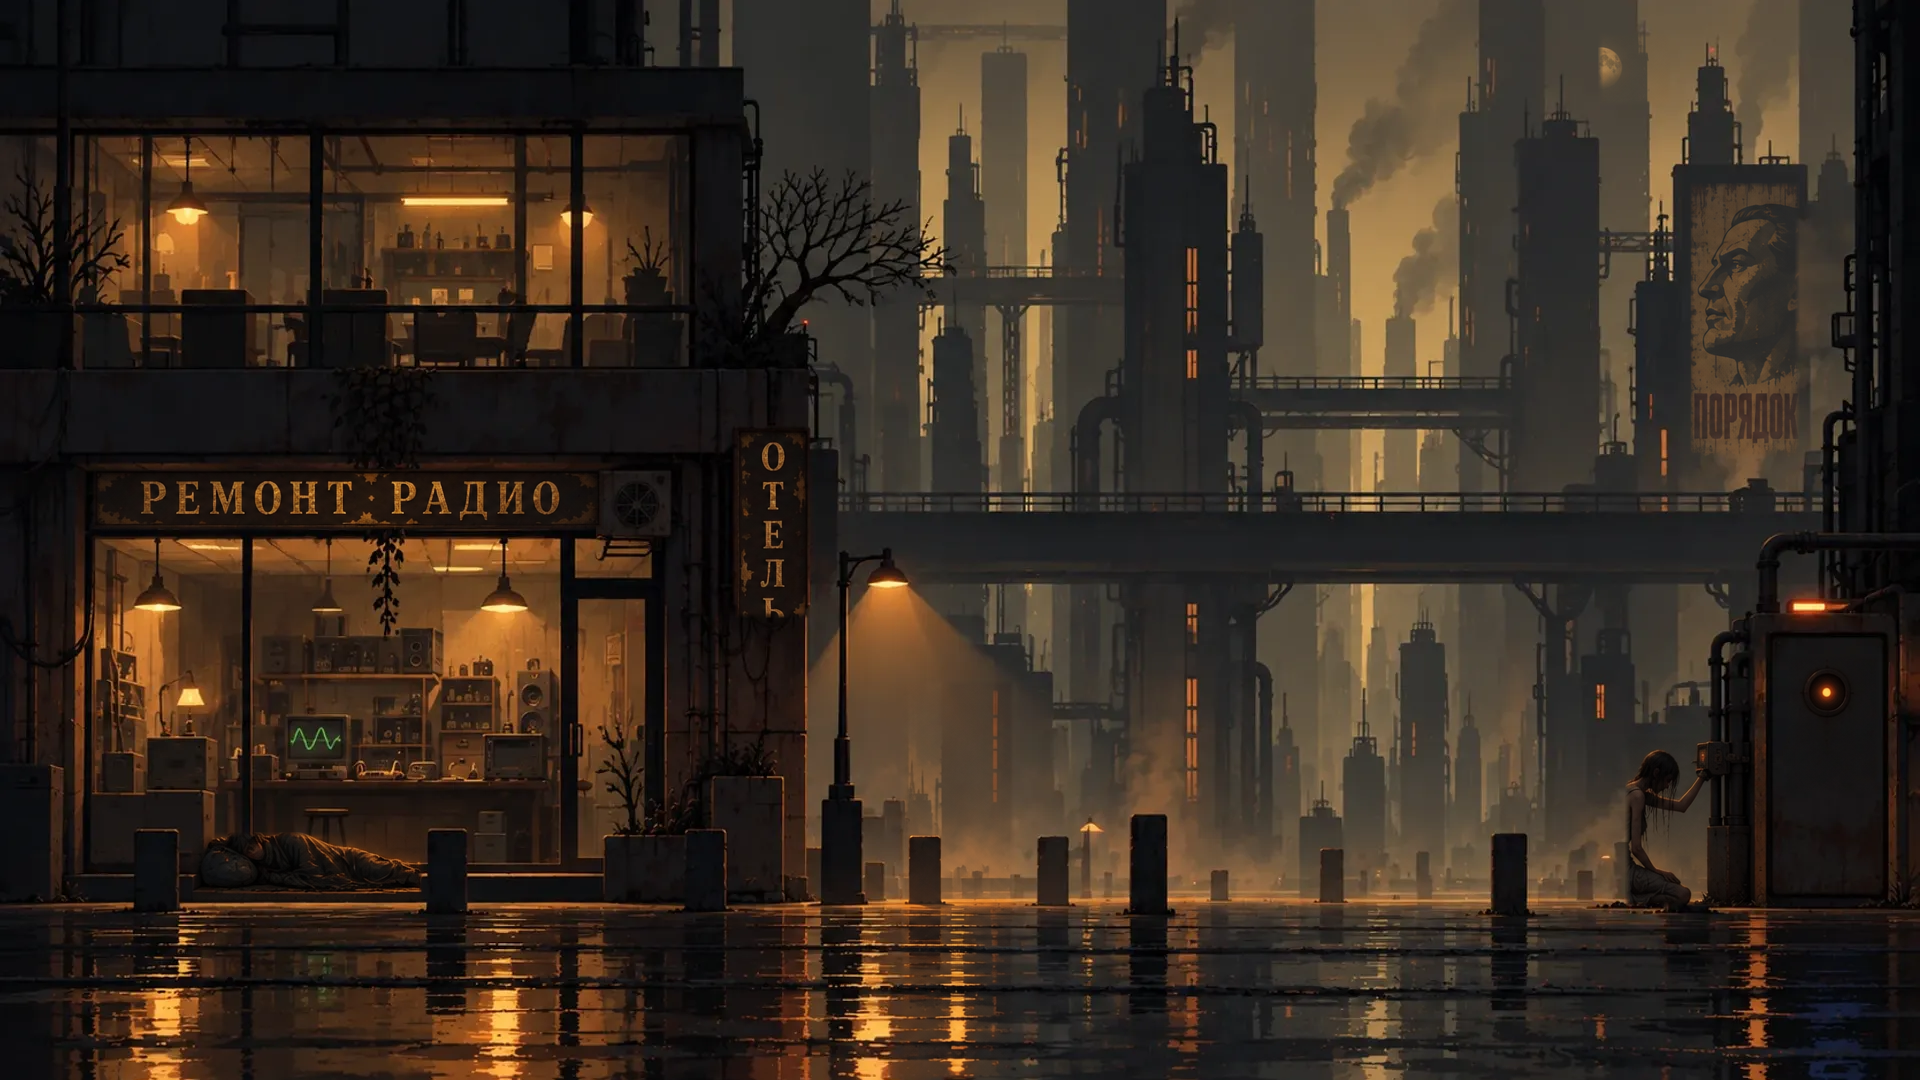
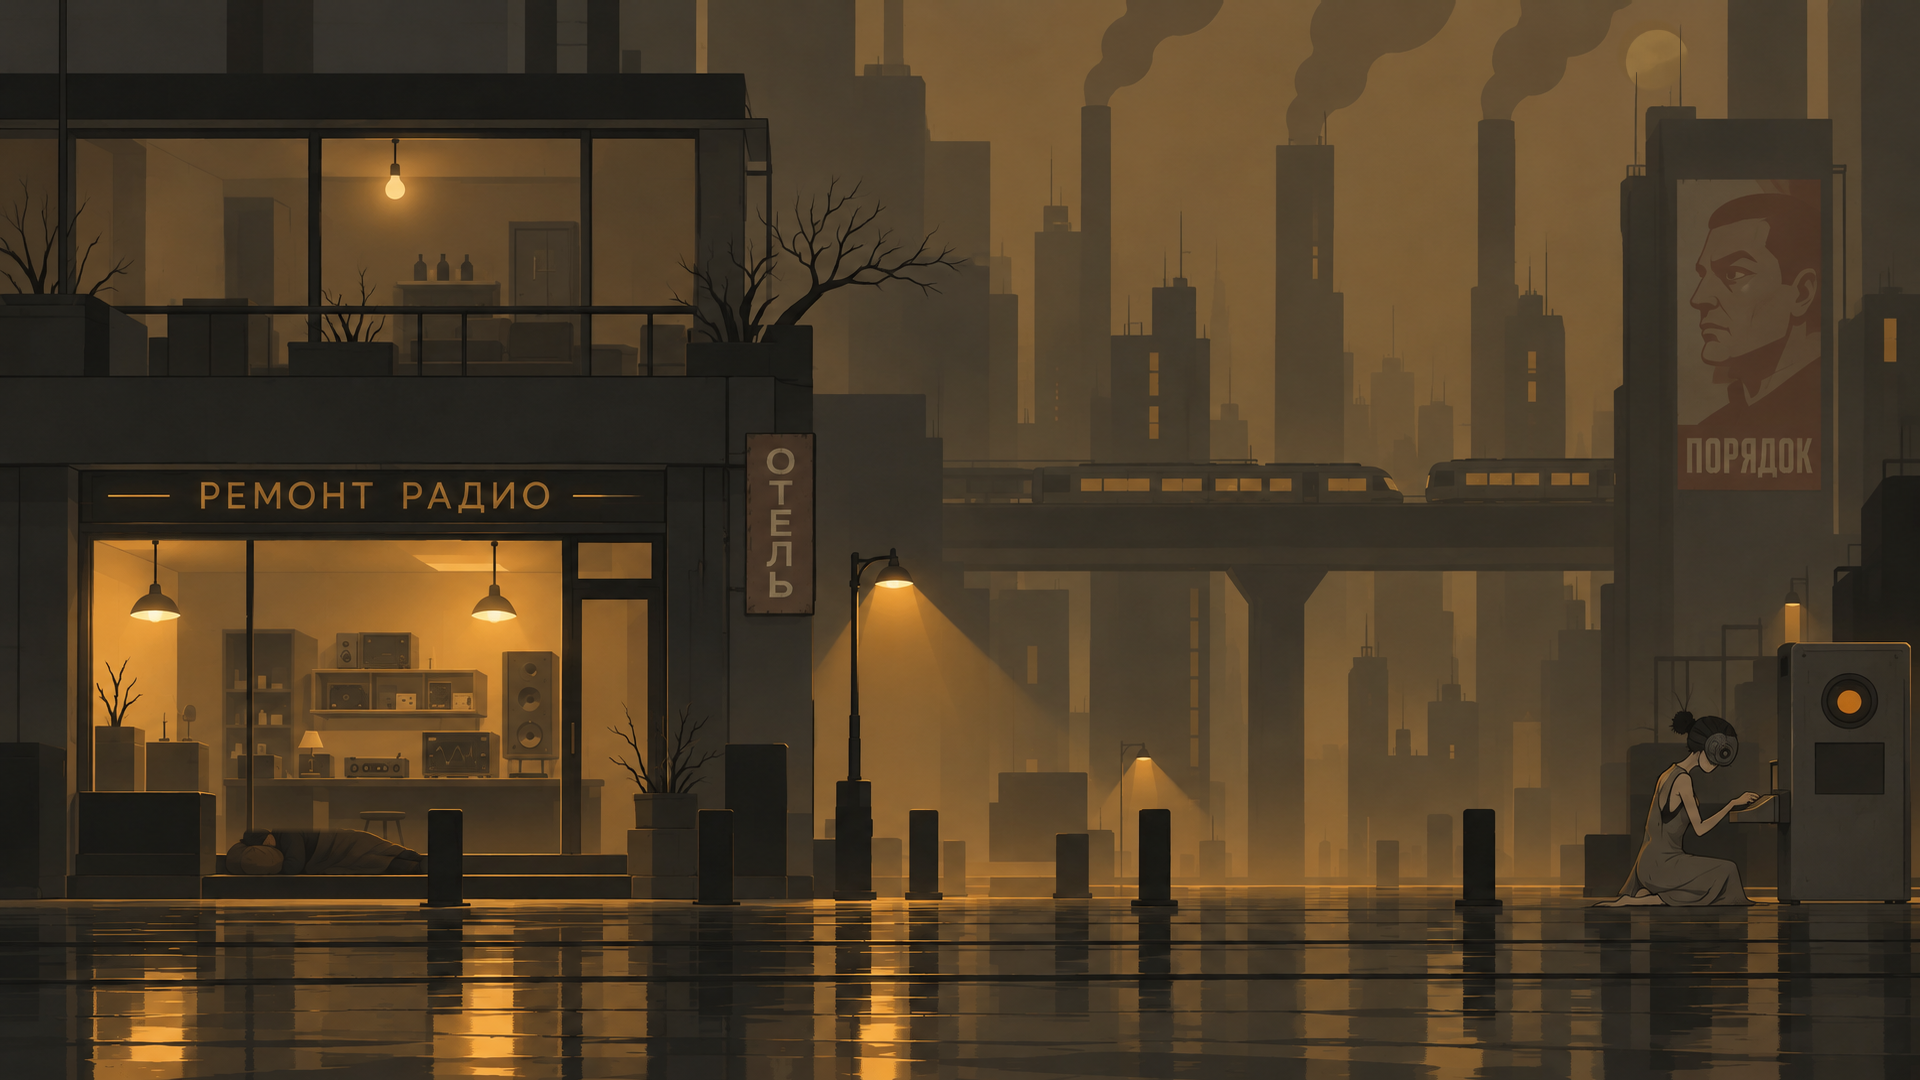
Redraw the street's raw view as simply as the Concierge's
The proposed raw picture, with its grime and pipes, had far too much detail for
the flat look. Raw view is now redrawn from the Concierge picture (redress
--from): the same shapes, lined up within a pixel, dim and worn in amber-brown
smog, with the sign, the faded ОТЕЛЬ, the poster and the woman at the machine;
the sleeper and the moon added as flat shapes.

For vector art the pipeline's raw-world text now asks for age and dirt as duller
colours, never texture, and a recipe's rawAir names the smog's colour (the
street's is amber-brown). Hotspots and lights follow the new picture.

diff --git a/docs/ASSETS.md b/docs/ASSETS.md
@@ -242,12 +242,17 @@ gone (`art/home/cutaway.json`): her floor lit in the middle of the frame, the ne
 city on either side. The scene walks her along her floor; the city at the sides is outside (`zones`), so the rain
 falls there, and rings from the rain only show on ground that reflects.
 
-How the street was made: the two pictures of the look reference, scaled to 1920 by 1080, were imported as its two
-views. `touch` took Lux out of both and painted back what the scene's story needs: the woman at the dining machine (in
-raw first, then laid under the Concierge's picture so its woman in red kneels in the same place), the sleeper in raw,
-the shop's gold-leaf sign in both views, the Concierge's face on the billboard with a poster in its place in raw, and
-the moon. Raw lettering follows the world bible: the hotel sign reads ОТЕЛЬ and the machine's screen is blank. The
-earlier painted street is in git's history.
+How the street was made: the Concierge's picture of the look reference, scaled to 1920 by 1080, was imported, and
+`touch` took Lux out of it and added what the scene's story needs: the woman in red at the dining machine, the shop's
+gold-leaf sign, the Concierge's face on the billboard. Raw view was then redrawn from it with `redress --from
+concierge.png`: the same shapes, lined up within a pixel, dim and worn in amber-brown smog, with the sign reading
+РЕМОНТ РАДИО, a faded ОТЕЛЬ, a poster where the face hangs and the woman wire-thin at the machine; `touch` added the
+sleeper. The proposed raw picture itself, with its grime and pipes, had far too much detail for the look. The earlier
+streets are in git's history.
+
+In flat art, raw view is as simple as the Concierge's: age and dirt are duller colours and a few simple shapes, never
+texture. The pipeline's description of the raw world says so for `look: vector`, and a recipe's `rawAir` names the
+colour of its raw smog (yellow-green unless it says otherwise; the street's is amber-brown).
 
 Lux was designed again in the look: `art/cast/lux-concierge.json` generated her Concierge self in profile with the
 flat reference figure from the concept art, and `redress` made her raw self from it, the same outline in her worn

diff --git a/docs/art/LIDLESS_Look_Reference_v1_2026-10-19.md b/docs/art/LIDLESS_Look_Reference_v1_2026-10-19.md
@@ -24,13 +24,16 @@ Lux walks along the bollards in both, about a fifth of the picture tall.
 - **Light.** The light is where the detail goes: glowing windows, lamps throwing cones through the air, neon, and long
   vertical reflections on the wet ground. The engine adds what moves: rain, drips, steam, light shafts, bloom, the
   traffic, the beacons, and the lights on the characters.
-- **The two views.** The same buildings in the same places. The Concierge's view is saturated violet, blue, pink and
-  cyan, warm and clean; raw view is the same street in amber-brown smog, industrial and rusted.
+- **The two views.** The same buildings in the same places, drawn equally simply. The Concierge's view is saturated
+  violet, blue, pink and cyan, warm and clean; raw view is the same shapes in amber-brown smog, dim and worn. Age and
+  dirt in raw view are duller, darker colours and a few simple shapes (smokestacks, a poster, dead plants), never
+  texture, stains or rust spots: the first raw street, with its grime and pipes, had far too much detail for the look.
 
 ## The street in the game
 
-`art/street/vista.json` is built from the two pictures at twice the level's resolution (see ASSETS.md, Resolution).
-What the scene's story needs was painted back in the same style, and everything else is as proposed:
+`art/street/vista.json` is built at twice the level's resolution (see ASSETS.md, Resolution). The Concierge's view is
+the proposed picture; raw view was redrawn from it, the same shapes in the colours of the proposed raw picture, so both
+views are equally simple and line up for the switch. What the scene's story needs was added in the same style:
 
 | Added | Why |
 | --- | --- |
@@ -62,4 +65,5 @@ the camera.
 ## Change log
 
 - **v1 · 2026-10-19:** the director's two pictures stored as the reference for the look; the main street built from
-  them, with what its story needs painted back in.
+  them, with what its story needs painted back in. The same day, raw view redrawn from the Concierge's picture, as
+  simple as it: the director found the first raw street far too detailed for the look.
